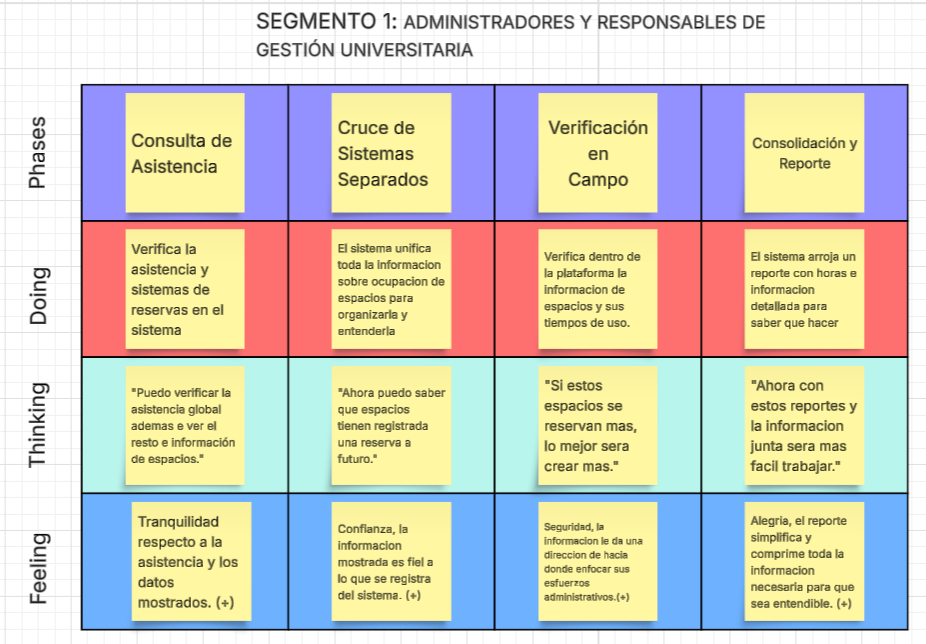
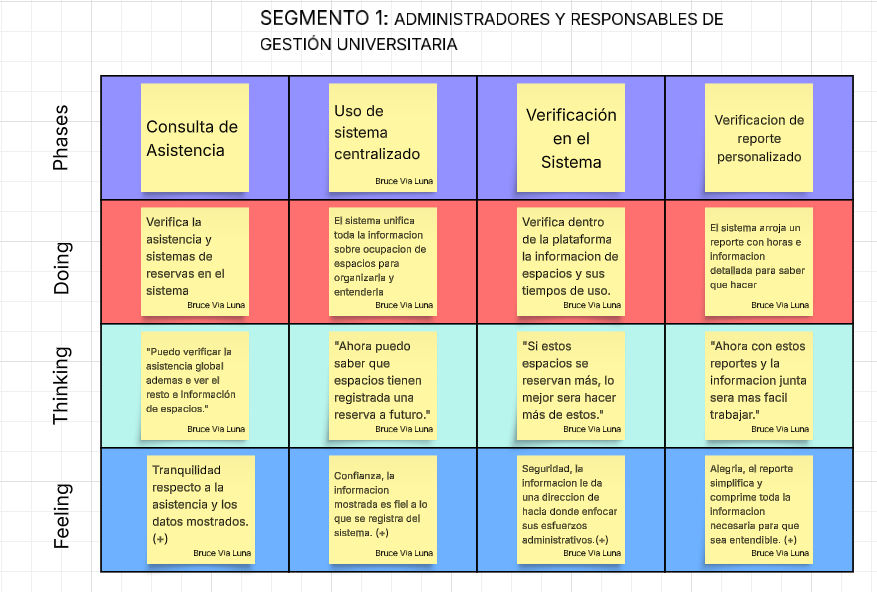
feature: partial corrections

diff --git a/README.md b/README.md
@@ -1385,8 +1385,10 @@ En esta sección se define el Ubiquitous Language del dominio de TarjePAFI, con 
 
 En esta sección se presenta un análisis detallado de la situación actual (TO-BE) para los diferentes segmentos.
 
-Se puede visualizar con más detalle en el siguiente enlace:
- https://lucid.app/lucidchart/248d5465-d381-4cde-87f1-66bdedbebb72/edit?viewport_loc=-6954%2C-757%2C1795%2C1049%2C0_0&invitationId=inv_8bc3eada-8980-4183-a77e-ef736ec53050
+Se puede visualizar con más detalle en los siguientes enlaces:
+https://lucid.app/lucidchart/e783a818-e492-46c5-a564-6fa8156b94c4/edit?viewport_loc=-6948%2C-760%2C1641%2C1152%2C0_0&invitationId=inv_c15e615c-d91a-4f21-8b21-2f41676eda3d
+
+https://lucid.app/lucidchart/5faf305b-e9be-4dc4-ae03-fc4b32774beb/edit?viewport_loc=-6883%2C-709%2C1823%2C1152%2C0_0&invitationId=inv_702058e1-7362-4405-ae1f-4b4cead42fbd
 
 <td align="center"><img src="assets/images/user-personas/to-be1.png" alt="TO BE 1" ></td>
 
@@ -1400,10 +1402,16 @@ Se puede visualizar con más detalle en el siguiente enlace:
 <td align="center"><img src="assets/images/user-personas/to-be2.png" alt="TO BE 2" ></td>
 
 <div align = center>
-
-
-
 </div>
+
+<td align="center"><img src="assets/images/user-personas/to-be3.png" alt="TO BE 2" ></td>
+
+<div align = center>
+</div>
+
+<td align="center"><img src="assets/images/user-personas/to-be4.png" alt="TO BE 2" ></td>
+
+
 
 ## 3.2. User Stories.
 
@@ -1417,40 +1425,40 @@ En esta sección detallaremos la existencia, escenarios y diferentes User Storie
 |EP03    |Registro de Asistencia| Como usuario de TarjePafi, quiero registrar correctamente la asistencia de alumnos mediante los sensores para acelerar los procesos de asistencia.|
 |EP04    |Gestión de Espacios y Servicios|Como usuario estudiante de TarjePafi, quiero activar mis reservas con la tarjeta para evitar usar otros medios que atrasen el proceso.|
 |EP05    |Administración y Control| Como usuario administrativo de TarjePafi, quiero tener control administrativo para acceder y controlar las funcionalidades diseñadas de las tarjetas.|
-|EP06    |Diseño y Usabilidad| Como usuario de TarjePafi, quiero ver un trabajo de diseño tanto fisico y digital para que sea agradable usar el producto.|
+
 
 
 Una vez concluidas las épicas, ahora podemos proceder a encapsular las múltiples historias de usuario que poseemos para definir los requerimientos de nuestra aplicación y saber cómo desarrollarla correctamente
 
-| Epic / Story ID | Titulo | Descripción | Criterios de Aceptación | Epic ID | 
-|-----------------|--------|-------------|-------------------------|--------------------------|
-| **US01** | Registro de Asistencia Estudiantil | Como estudiante, quiero poder pasar mi tarjeta por un lector al entrar al salón de clases, para que mi asistencia sea registrada automáticamente. | **Scenario:** Registro de asistencia en clase.<br>Dado que el estudiante pasa su tarjeta por el lector, y la clase ha comenzado, cuando la tarjeta es leída, entonces su asistencia se registra automáticamente. | **EP03** |
-| **US02** | Confirmación de Asistencia | Como estudiante, quiero que el lector muestre un mensaje de "Asistencia tomada" en la pantalla, para que sepa que mi asistencia ha sido registrada. | **Scenario:** Mensaje de confirmación.<br>Dado que el estudiante pasa su tarjeta, y la asistencia ha sido registrada, cuando el lector procesa la tarjeta, entonces se muestra el mensaje "Asistencia tomada". | **EP03** |
-| **US03** | Reserva de Espacios de Estudio | Como estudiante, quiero usar mi tarjeta para acceder a mis reservas para usarlas | **Scenario:** Activación de una reserva.<br>Dado que el estudiante quiere activar la reserva de un espacio, y tiene su tarjeta, cuando pasa la tarjeta por el lector en el área de reserva, entonces se activará la reserva. | **EP04** |
-| **US04** | Visualización de reportes | Como personal administrativo, quiero que la página muestre reportes administrativos con la información recolectada para administrar y tener datos útiles. | **Scenario:** Ver el reporte.<br>Dado que el administrador ingresa a la página, y está registrado, cuando ingrese a la sección de "Ver Reporte", entonces verá un reporte que use las horas recolectadas y de sugerencias. | **EP05** |
-| **US05** | Diseño Atractivo de la Tarjeta | Como estudiante, quiero que la tarjeta tenga un diseño atractivo y fácil de identificar, para que me sienta orgulloso de usarla. | **Scenario:** Diseño de tarjeta.<br>Dado que un estudiante recibe su tarjeta, y la observa, cuando la tarjeta es presentada, entonces tiene un diseño atractivo y fácil de identificar. | **EP06** |
-| **US06** | Acceso Multicentro con la Tarjeta | Como estudiante, quiero que la tarjeta funcione en múltiples puntos de acceso, como bibliotecas y laboratorios, para facilitar mi acceso a los recursos. | **Scenario:** Acceso a múltiples áreas.<br>Dado que el estudiante usa la tarjeta en diferentes puntos, y está autorizado para acceder, cuando pasa la tarjeta por el lector, entonces se le permite el acceso. | **EP04** |
+| User Story ID | Título | Descripción | Criterios de aceptación | Relacionado con (Epic ID) |
+| :--- | :--- | :--- | :--- | :--- |
+| **US01** | Registro de Asistencia Estudiantil | Como estudiante, quiero poder pasar mi tarjeta por un lector al entrar al salón de clases, para que mi asistencia sea registrada automáticamente. | **Scenario:** Registro de asistencia en clase.<br>Dado que el estudiante pasa su tarjeta por el lector, y la clase ha comenzado, cuando la tarjeta es leída, entonces su asistencia se registra automáticamente. <br> **Scenario:** Tarjeta no registrada. Dado que el estudiante pasa una tarjeta no registrada, cuando el lector la procesa, entonces se muestra un mensaje de error y no se registra la asistencia. <br> **Scenario:** Asistencia duplicada. Dado que el estudiante ya registró su asistencia, cuando vuelve a pasar la tarjeta, entonces el sistema evita duplicar el registro.|**EP03**|
+| **US02** | Confirmación de Asistencia | Como estudiante, quiero que el lector muestre un mensaje de "Asistencia tomada" en la pantalla, para que sepa que mi asistencia ha sido registrada.| **Scenario:** Mensaje de confirmación.<br>Dado que el estudiante pasa su tarjeta, y la asistencia ha sido registrada, cuando el lector procesa la tarjeta, entonces se muestra el mensaje "Asistencia tomada". | **EP03** |
+| **US03** | Reserva de Espacios de Estudio | Como estudiante, quiero poder usar mi tarjeta para reservar espacios de estudio en la universidad, de modo que pueda planificar mejor mi tiempo. | **Scenario:** Reserva de un espacio.<br>Dado que el estudiante quiere reservar un espacio, y tiene su tarjeta, cuando pasa la tarjeta por el lector en el área de reserva, entonces se confirma la reserva en la pantalla. **Scenario:** Espacio no disponible.<br>Dado que el estudiante intenta reservar un espacio ocupado, cuando pasa su tarjeta, entonces se muestra un mensaje indicando que el espacio no está disponible. | **EP04** |
+| **US04** | Visualización del Horario de Clase | Como estudiante, quiero que la tarjeta me muestre el horario de la clase en la pantalla del lector al pasarla, para confirmar la información antes de entrar. | **Scenario:** Confirmación del horario.<br>Dado que el estudiante pasa su tarjeta, y está registrado para una clase, cuando la tarjeta es leída, entonces el horario de la clase se muestra en el lector. | **EP04** |
+| **US05** | Uso en dispositivos mobiles | Como visitante, quiero un diseño de la Landing Page funcional en dispositivos moviles, para visitar la pagina desde mi celular. | **Scenario:** Visualizacion en celulares.<br>Dado que el visitante ingresa desde un dispositivo móvil, cuando navega por la Landing Page, entonces el contenido se adapta correctamente al tamaño de la pantalla. | **EP01** |
+| **US06** | Acceso Multicentro con la Tarjeta | Como estudiante, quiero que la tarjeta funcione en múltiples puntos de acceso, como bibliotecas y laboratorios, para facilitar mi acceso a los recursos. | **Scenario:** Acceso a múltiples áreas.<br>Dado que el estudiante usa la tarjeta en diferentes puntos, y está autorizado para acceder, cuando pasa la tarjeta por el lector, entonces se le permite el acceso.**Scenario:** Acceso no autorizado.<br> Dado que el estudiante no tiene permisos, cuando pasa su tarjeta, entonces se deniega el acceso. | **EP04** |
 | **US07** | Participación en Eventos Universitarios | Como estudiante, quiero que la tarjeta me permita acceder a eventos universitarios, para participar en actividades extracurriculares. | **Scenario:** Acceso a eventos.<br>Dado que hay un evento universitario, y el estudiante tiene su tarjeta, cuando pasa la tarjeta por el lector en la entrada, entonces se permite su entrada al evento. | **EP04** |
 | **US08** | Identificación Estudiantil | Como estudiante, quiero que la tarjeta funcione como una forma de identificación, para ser reconocido fácilmente por el personal académico. | **Scenario:** Identificación al personal.<br>Dado que el estudiante presenta su tarjeta, y es abordado por el personal, cuando la tarjeta es leída, entonces su identidad es verificada. | **EP02** |
-| **US09** | Durabilidad de la Tarjeta | Como estudiante, quiero que la tarjeta esté diseñada para ser resistente al desgaste, para que pueda usarla durante todo el año académico sin problemas. | **Scenario:** Uso prolongado.<br>Dado que el estudiante utiliza su tarjeta frecuentemente, y la tarjeta es de buena calidad, cuando transcurre un año académico, entonces la tarjeta se encuentra en buen estado. | **EP06** |
-| **US10** | Baja de Tarjeta para Estudiantes Retirados | Como administrador, quiero poder dar de baja una tarjeta de un estudiante que se ha retirado de la universidad, para asegurar que ya no tenga acceso a los servicios. | **Scenario:** Baja de tarjeta.<br>Dado que un estudiante se ha retirado, y el administrador lo registra, cuando se da de baja la tarjeta, entonces el acceso a los servicios se cancela. | **EP05** |
-| **US11** | Vinculación a Base de Datos | Como administrador, quiero que la tarjeta esté vinculada a la base de datos de estudiantes, para poder gestionar fácilmente su estado. | **Scenario:** Gestión de tarjetas.<br>Dado que la tarjeta está vinculada a un estudiante, y se actualiza la base de datos, cuando se registra un cambio, entonces la información de la tarjeta se actualiza automáticamente. | **EP05** |
-| **US12** | Control de Acceso en Áreas Restringidas | Como administrador, quiero que la tarjeta proporcione un mensaje en el lector cuando un estudiante accede a un área restringida, para garantizar que solo los autorizados ingresen. | **Scenario:** Control de acceso.<br>Dado que un estudiante intenta acceder a un área restringida, y su tarjeta es leída, cuando no tiene permiso, entonces se muestra un mensaje de "Acceso denegado". | **EP05** |
+| **US09** | Sección de Preguntas Frecuentes (FAQ) | Como visitante, quiero consultar una sección de Preguntas Frecuentes en la Landing Page, para resolver dudas comunes sobre el funcionamiento y los costos de TarjePAFI de manera inmediata. | **Scenario:** Resolución de dudas autónoma.<br>Dado que el visitante tiene dudas sobre la implementación, cuando hace clic en una pregunta de la sección FAQ, entonces se despliega la respuesta correspondiente de forma clara y concisa. | **EP01** |
+| **US10** | Baja de Tarjeta para Estudiantes Retirados | Como administrador, quiero poder dar de baja una tarjeta de un estudiante que se ha retirado de la universidad, para asegurar que ya no tenga acceso a los servicios. | **Scenario:** Baja de tarjeta.<br>Dado que un estudiante se ha retirado, y el administrador lo registra, cuando se da de baja la tarjeta, entonces el acceso a los servicios se cancela.<br>**Scenario:** Tarjeta desactivada.<br>Dado que el administrador da de baja una tarjeta, cuando el estudiante intenta utilizarla, entonces el sistema rechaza el acceso.<br>**Scenario:** Confirmación de baja.<br>Dado que el administrador confirma la operación, cuando se procesa la baja, entonces el estado de la tarjeta cambia a "Desactivada". | **EP05** |
+| **US11** | Vinculación a Base de Datos | Como administrador, quiero que la tarjeta esté vinculada a la base de datos de estudiantes, para poder gestionar fácilmente su estado. | **Scenario:** Gestión de tarjetas.<br>Dado que la tarjeta está vinculada a un estudiante, y se actualiza la base de datos, cuando se registra un cambio, entonces la información de la tarjeta se actualiza automáticamente.<br> **Scenario:** Estudiante no encontrado.<br> Dado que la tarjeta no está vinculada a un estudiante, cuando se intenta actualizar la información, entonces el sistema muestra un mensaje de error.| **EP05** |
+| **US12** | Control de Acceso en Áreas Restringidas | Como administrador, quiero que la tarjeta proporcione un mensaje en el lector cuando un estudiante accede a un área restringida, para garantizar que solo los autorizados ingresen. | **Scenario:** Control de acceso.<br>Dado que un estudiante intenta acceder a un área restringida, y su tarjeta es leída, cuando no tiene permiso, entonces se muestra un mensaje de "Acceso denegado".<br>**Scenario:** Acceso autorizado.<br> Dado que el estudiante tiene permiso para ingresar, cuando pasa su tarjeta, entonces se muestra el mensaje "Acceso concedido". | **EP05** |
 | **US13** | Reactivación de Tarjetas | Como administrador, quiero tener la opción de reactivar una tarjeta si un estudiante vuelve a inscribirse, para facilitar su regreso. | **Scenario:** Reactivación de tarjeta.<br>Dado que un estudiante se reincorpora, y la tarjeta fue desactivada, cuando el administrador la reactiva, entonces el estudiante puede usarla nuevamente. | **EP05** |
-| **US14** | Personalización de Permisos de Acceso | Como administrador, quiero poder personalizar los permisos de acceso de cada tarjeta según el rol, para mantener un control adecuado. | **Scenario:** Permisos de acceso.<br>Dado que el administrador personaliza los permisos, y los asigna a una tarjeta, cuando la tarjeta es leída, entonces se verifica el acceso según los permisos. | **EP05** |
-| **US15** | Desactivación Automática de Tarjetas | Como administrador, quiero que las tarjetas se desactiven automáticamente si un estudiante no completa su matrícula a tiempo, para mantener la seguridad. | **Scenario:** Desactivación automática.<br>Dado que un estudiante no completa su matrícula, y la fecha límite ha pasado, cuando el sistema verifica la matrícula, entonces la tarjeta se desactiva automáticamente. | **EP05** |
-| **US16** | Registro de Asistencia Docente | Como profesor, quiero que la tarjeta registre automáticamente la asistencia de los estudiantes al pasarla por el lector, para ahorrar tiempo en el proceso de toma de asistencia. | **Scenario:** Registro de asistencia docente.<br>Dado que el profesor pasa su tarjeta al inicio de clase, y los estudiantes están presentes, cuando la tarjeta es leída, entonces se registra automáticamente la asistencia. | **EP03** |
-| **US17** | Registro de Horas de Trabajo | Como trabajador, quiero que al finalizar la jornada, al pasar de nuevo mi tarjeta por el lector, se registre mi salida, para tener un registro completo de mis horas trabajadas. | **Scenario:** Registro de horas trabajadas.<br>Dado que el trabajador pasa su tarjeta al finalizar su jornada laboral, y el lector está activo, cuando la tarjeta es leída, entonces se registra la hora de salida. | **EP03** |
+| **US14** | Personalización de Permisos de Acceso | Como administrador, quiero poder personalizar los permisos de acceso de cada tarjeta según el rol, para mantener un control adecuado. | **Scenario:** Permisos de acceso.<br>Dado que el administrador personaliza los permisos, y los asigna a una tarjeta, cuando la tarjeta es leída, entonces se verifica el acceso según los permisos.<br>**Scenario:** Permiso actualizado.<br> Dado que el administrador modifica los permisos de una tarjeta, cuando guarda los cambios, entonces los nuevos permisos se aplican.<br>**Scenario:** Usuario sin permiso.<br>Dado que el usuario no tiene autorización para un área, cuando intenta ingresar, entonces el sistema rechaza el acceso. | **EP05** |
+| **US15** | Desactivación Automática de Tarjetas | Como administrador, quiero que las tarjetas se desactiven automáticamente si un estudiante no completa su matrícula a tiempo, para mantener la seguridad. | **Scenario:** Desactivación automática.<br>Dado que un estudiante no completa su matrícula, y la fecha límite ha pasado, cuando el sistema verifica la matrícula, entonces la tarjeta se desactiva automáticamente.<br>**Scenario:** Matrícula completada.<br>Dado que el estudiante completa su matrícula antes de la fecha límite, cuando el sistema verifica su estado, entonces la tarjeta permanece activa. | **EP05** |
+| **US16** | Registro de Asistencia Docente | Como profesor, quiero que la tarjeta guarde automáticamente la asistencia de los estudiantes que pasaron su tarjeta previamente cuando pase mi tarjeta por el lector, para ahorrar tiempo en el proceso de toma de asistencia. | **Scenario:** Registro de asistencia docente.<br>Dado que el profesor pasa su tarjeta al inicio de clase, y los estudiantes están presentes, cuando la tarjeta es leída, entonces se registra automáticamente la asistencia.<br>**Scenario:** Sin estudiantes registrados.<br> Dado que ningún estudiante pasó su tarjeta, cuando el profesor inicia la sesión, entonces el sistema informa que no existen asistencias registradas. | **EP03** |
+| **US17** | Registro de Horas de Trabajo | Como profesor, quiero que al finalizar la clase, al pasar de nuevo mi tarjeta por el lector, se registre mi salida, para tener un registro completo de mis horas trabajadas. | **Scenario:** Registro de horas trabajadas.<br>Dado que el profesor pasa su tarjeta al finalizar la clase, y el lector está activo, cuando la tarjeta es leída, entonces se registra la hora de salida.<br>**Scenario:** Registro de salida.<br> Dado que el profesor registró su entrada, cuando pasa nuevamente su tarjeta al finalizar la clase, entonces se registra la hora de salida.<br>**Scenario:** Sin registro de entrada.<br> Dado que el profesor no registró su entrada, cuando intenta registrar su salida, entonces el sistema muestra un mensaje de error. | **EP03** |
 | **US18** | Confirmación de Registro de Asistencia | Como profesor, quiero que el sistema muestre un mensaje que confirme que mi asistencia ha sido registrada, para tener la seguridad de que el proceso se ha completado. | **Scenario:** Confirmación de asistencia.<br>Dado que el profesor pasa su tarjeta, y la asistencia ha sido registrada, cuando el lector procesa la tarjeta, entonces se muestra un mensaje de confirmación. | **EP03** |
-| **US19** | Visualización de Horas Acumuladas en espacios| Como administraor, quiero ver que tantas horas se usan diferentes espacios, para poder revisar y gestionar mejor los recursos. | **Scenario:** Revisión de horas.<br>Dado que se pasan las tarjetas, y el lector tiene acceso a datos acumulados, cuando la tarjeta es leída, entonces se muestran las horas y personas en ese espacio. | **EP03** |
-| **US20** | Historial de Asistencia Docente | Como profesor, quiero que se registre la hora y fecha exacta en que escaneo mi tarjeta, para tener un historial preciso de mi asistencia. | **Scenario:** Registro de asistencia docente.<br>Dado que el profesor escanea su tarjeta, y se registra la hora y fecha, cuando se consulta el historial, entonces se muestra el registro de asistencia. | **EP03** |
+| **US19** | Consulta de Horas Trabajadas | Como trabajador, quiero que el lector muestre mis horas acumuladas de trabajo al final de cada semana, para poder revisar y gestionar mejor mi tiempo. | **Scenario:** Revisión de horas.<br>Dado que el trabajador pasa su tarjeta, y el lector tiene acceso a datos acumulados, cuando la tarjeta sea leída, entonces se muestran las horas acumuladas de trabajo.<br>**Scenario:** Consulta sin registros.<br>Dado que el trabajador no tiene horas registradas, cuando consulta su resumen semanal, entonces el sistema indica que no existen registros. | **EP03** |
+| **US20** | Historial de Asistencia Docente | Como profesor, quiero que se registre la hora y fecha exacta en que escaneo mi tarjeta, para tener un historial preciso de mi asistencia. | **Scenario:** Registro de asistencia docente.<br>Dado que el profesor escanea su tarjeta, y se registra la hora y fecha, cuando se consulta el historial, entonces se muestra el registro de asistencia.<br>**Scenario:** Historial vacío.<br> Dado que no existen registros, cuando el profesor consulta su historial, entonces se muestra un mensaje indicando que no hay información disponible. | **EP03** |
 | **US21** | Registro de Asistencia en Reuniones | Como profesor, quiero que mi tarjeta me permita marcar mi asistencia a reuniones o capacitaciones, para llevar un control integral de mi tiempo. | **Scenario:** Registro en reuniones.<br>Dado que el profesor asiste a una reunión, y pasa su tarjeta al inicio, cuando la tarjeta es leída, entonces se registra su asistencia a la reunión. | **EP03** |
-| **US22** | Registro de Llegada a Clases | Como profesor, quiero que, al pasar mi tarjeta por el lector al inicio de la clase, se registre automáticamente mi llegada, para llevar un control de mis horas de trabajo. | **Scenario:** Registro de llegada.<br>Dado que el profesor pasa su tarjeta al inicio de la clase, y el lector está activo, cuando la tarjeta es leída, entonces se registra la hora de llegada. | **EP03** |
+| **US22** | Registro de Llegada a Clases | Como profesor, quiero que, al pasar mi tarjeta por el lector al inicio de la clase, se registre automáticamente mi llegada, para llevar un control de mis horas de trabajo. | **Scenario:** Registro de llegada.<br>Dado que el profesor pasa su tarjeta al inicio de la clase, y el lector está activo, cuando la tarjeta es leída, entonces se registra la hora de llegada.<br>**Scenario:** Fuera del horario.<br>Dado que no existe una clase programada, cuando el profesor pasa su tarjeta, entonces el sistema muestra un mensaje informativo. | **EP03** |
 | **US23** | Registro de Duración de Clases | Como profesor, quiero que, al pasar la tarjeta por el lector, se registre automáticamente la duración de la clase, para tener un control más preciso sobre el tiempo de enseñanza. | **Scenario:** Duración de la clase.<br>Dado que el profesor pasa su tarjeta al inicio y al final, y el lector registra ambas, cuando se procesa la información, entonces se calcula la duración de la clase. | **EP03** |
-| **US24** | Control de Entrada y Salida | Como profesor, quiero que la tarjeta muestre una foto cuando un estudiante registra su asistencia en la clase, para llevar un registro claro de su presencia. | **Scenario:** Foto para la entrada.<br>Dado que un estudiante pasa su tarjeta al entrar, y el lector está activo, cuando se lee la tarjeta, entonces se muestra una foto. | **EP03** |
-| **US25** | Registro de Curso y Materia | Como profesor, quiero que, al escanear mi tarjeta, se registre automáticamente el nombre del curso y la materia que imparto, para llevar un control más detallado. | **Scenario:** Registro de curso.<br>Dado que el profesor escanea su tarjeta, y está vinculado a un curso específico, cuando se procesa la lectura, entonces se registra automáticamente el curso y la materia. | **EP03** |
-| **US26** | Visualización de Funcionalidades | Como visitante de la web, quiero ver una sección clara con las funcionalidades principales de TarjePafi en la Landing Page, para entender rápidamente qué ofrece el producto antes de adquirirlo. | **Scenario:** Exploración de características.<br>Dado que el visitante entra a la Landing Page, cuando navega hacia la sección de beneficios, entonces puede leer un resumen claro de las funciones del sistema. | **EP01** |
-| **US27** | Acceso a Contacto y Soporte | Como usuario interesado, quiero tener un botón de contacto visible en la Landing Page, para poder enviar mis dudas al equipo de TarjePafi de manera rápida. | **Scenario:** Envío de consultas.<br>Dado que el usuario tiene dudas sobre el servicio, cuando hace clic en el botón de contacto, entonces se despliega un formulario o enlace directo para comunicarse con el equipo. | **EP01** |
+| **US24** | Cierre de turno | Como trabajador, quiero que la tarjeta sirva como herramienta de registro e salida del trabajo, para llevar un registro exacto de mis horas trabajadas | **Scenario:** Mensajes de salida.<br>Dado que un trabajador pasa su tarjeta al salir de su espacio de trabajo, y el lector está activo, cuando se lea la tarjeta, entonces contaran las horas desde que paso la tarjeta en su entrada hasta ese momento.<br>**Scenario:** Salida duplicada.<br>Dado que el trabajador ya registró su salida, cuando vuelve a pasar su tarjeta, entonces el sistema evita duplicar el registro. | **EP03** |
+| **US25** | Registro de Curso y Materia | Como profesor, quiero que, al escanear mi tarjeta, se registre automáticamente el nombre del curso y la materia que imparto, para llevar un control más detallado. | **Scenario:** Registro de curso.<br>Dado que el profesor escanea su tarjeta, y está vinculado a un curso específico, cuando se procesa la lectura, entonces se registra automáticamente el curso y la materia.<br>**Scenario:** Sin curso asignado.<br>Dado que el profesor no tiene un curso asignado, cuando escanea su tarjeta, entonces el sistema muestra un mensaje informativo. | **EP03** |
+| **US26** | Visualización de Funcionalidades | Como visitante de la web, quiero ver una sección clara con las funcionalidades principales de TarjePAFI en la Landing Page, para entender rápidamente qué ofrece el producto antes de adquirirlo. | **Scenario:** Exploración de características.<br>Dado que el visitante entra a la Landing Page, cuando navega hacia la sección de beneficios, entonces puede leer un resumen claro de las funciones del sistema. | **EP01** |
+| **US27** | Acceso a Contacto y Soporte | Como visitante, quiero tener un botón de contacto visible en la Landing Page, para poder enviar mis dudas al equipo de TarjePAFI de manera rápida. | **Scenario:** Envío de consultas.<br>Dado que el usuario tiene dudas sobre el servicio, cuando hace clic en el botón de contacto, entonces se despliega un formulario o enlace directo para comunicarse con el equipo. | **EP01** |
 
 ## 3.3. Impact Mapping.
 
